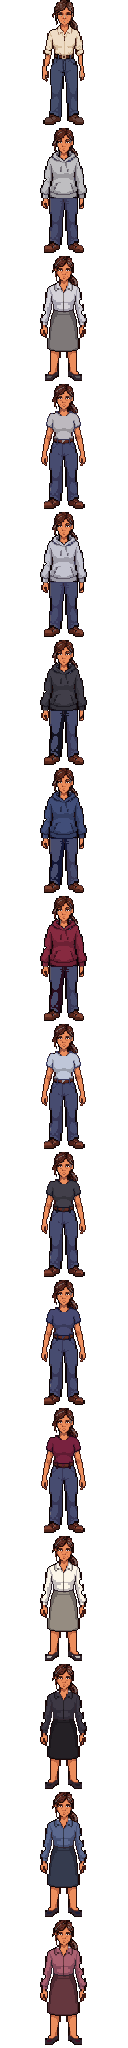
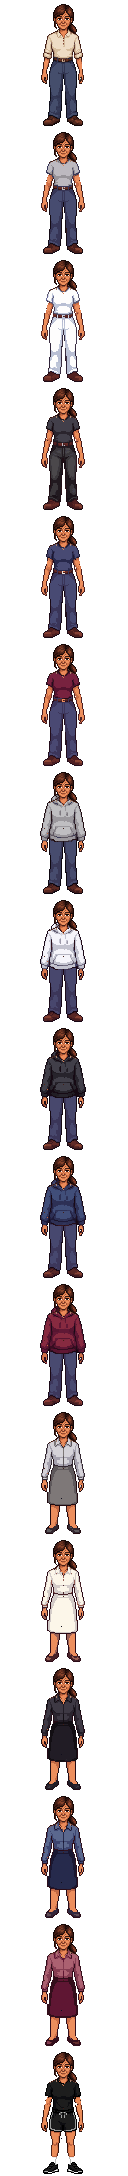
Daily 2.3.1 (sin publicar): edades rehechas en PixelLab
Claude-Session: https://claude.ai/code/session_018K2oLYSpPtdcPdEUVYj7Hk

Changed region(s): [[0.3125, 0.0, 0.6875, 1.0]]

diff --git a/pruebas/t38.js b/pruebas/t38.js
@@ -14,7 +14,7 @@ const { chromium } = require('playwright'); const fs = require('fs');
   await p.evaluate(() => { localStorage.setItem('daily_ver_vista', '2.2.6'); localStorage.setItem('daily_prueba_novedades', '1'); }); await p.reload(); await p.waitForTimeout(800); if (await p.$('#invitado')) { await p.click('#invitado'); }
   await p.waitForTimeout(2200);
   let sh = await p.evaluate(() => window.DAILY.get().sheet && window.DAILY.get().sheet.view); let t = await p.evaluate(() => (document.querySelector('#sheetIn') || {}).innerText || '');
-  ok(sh === 'novedades' && /Novedades/.test(t) && /tono de piel/.test(t) && !/niño, joven/.test(t) && /2\.2\.7/.test(t), 'al actualizar aparece «Novedades» con lo de esta versión y las anteriores');
+  ok(sh === 'novedades' && /Novedades/.test(t) && /tono de piel/.test(t) && /niño, joven, adulto o mayor/.test(t) && /2\.2\.7/.test(t), 'al actualizar aparece «Novedades» con lo de esta versión y las anteriores');
   ok(await p.evaluate(v => localStorage.getItem('daily_ver_vista') === v, ver), 'queda anotada la versión vista');
   await A('cerrar'); await p.reload(); await p.waitForTimeout(800); if (await p.$('#invitado')) await p.click('#invitado'); await p.waitForTimeout(2200);
   ok(!(await p.evaluate(() => window.DAILY.get().sheet)), 'no vuelve a aparecer');
@@ -39,6 +39,11 @@ const { chromium } = require('playwright'); const fs = require('fs');
   ok(ed.distintos === 8, 'cada edad tiene su propio dibujo: ' + ed.distintos);
   ok(ed.n.edad === 'mayor' && ed.n.tipo === 'base' && ed.n.peinado === 'base' && !ed.prendas.includes('sotana'), 'lo que no hay en una edad cae en lo que sí: ' + JSON.stringify([ed.n.tipo, ed.n.peinado, ed.prendas]));
   ok(ed.colores === 5 && ed.piel, 'las edades tienen los cinco colores y aceptan el tono de piel');
+  const pm = await p.evaluate(async () => { const PJ = await import('./js/personaje.js'); await PJ.cargar(); const o = PJ.opciones(PJ.normal({ sx: 'f', edad: 'mayor', prenda: 'buzo:azul' })); const oj = PJ.opciones(PJ.normal({ sx: 'f', prenda: 'buzo:azul' }));
+    const cv = document.createElement('canvas'), cv2 = document.createElement('canvas'); PJ.pintar(cv, { sx: 'f', edad: 'mayor', peinado: 'rodete', prenda: 'buzo:azul' }); PJ.pintar(cv2, { sx: 'f', edad: 'mayor', prenda: 'buzo:azul' });
+    return { pe: o.peinados.map(x => x[0]), joven: oj.peinados.map(x => x[0]), distinto: cv.toDataURL() !== cv2.toDataURL(), pr: PJ.opciones(PJ.normal({ sx: 'm', edad: 'adulto' })).prendas.map(x => x[0]) }; });
+  ok(pm.pe.join() === 'base,rodete' && !pm.joven.includes('rodete') && pm.distinto, 'la mayor tiene anteojos o rodete (y la joven no tiene rodete): ' + JSON.stringify(pm));
+  ok(['remera', 'buzo', 'camisa', 'deportiva'].every(x => pm.pr.includes(x)) && !pm.pr.includes('sotana'), 'el adulto tiene toda la ropa laica del joven: ' + pm.pr);
   }
   if (listas.includes('nino')) { await p.click('.seg.edad button[data-p="edad|nino"]'); await p.waitForTimeout(600);
   ok(await p.evaluate(() => (JSON.parse(localStorage.getItem('scaeli-daily-local'))['daily_settings/profile'] || {}).edad === 'nino'), 'la edad elegida se guarda'); }

diff --git a/js/app.js b/js/app.js
@@ -20,7 +20,7 @@ import * as PJ from "./personaje.js";
 import { RETIROS } from "../data/retiros.js";   // 2.2: caminos largos de oración (Scaeli+)
 import { MUSICAS, musicaPlay, musicaStop, musicaEstado, musicaAlCambiar, campana, vozDisponible, decir, callar } from "./audio.js";
 
-export const VERSION="2.3";
+export const VERSION="2.3.1";
 const LOGO_GOOGLE='<svg class="logo-g" viewBox="0 0 48 48" aria-hidden="true"><path fill="#EA4335" d="M24 9.5c3.54 0 6.71 1.22 9.21 3.6l6.85-6.85C35.9 2.38 30.47 0 24 0 14.62 0 6.51 5.38 2.56 13.22l7.98 6.19C12.43 13.72 17.74 9.5 24 9.5z"/><path fill="#4285F4" d="M46.98 24.55c0-1.57-.15-3.09-.38-4.55H24v9.02h12.94c-.58 2.96-2.26 5.48-4.78 7.18l7.73 6c4.51-4.18 7.09-10.36 7.09-17.65z"/><path fill="#FBBC05" d="M10.53 28.59c-.48-1.45-.76-2.99-.76-4.59s.27-3.14.76-4.59l-7.98-6.19C.92 16.46 0 20.12 0 24c0 3.88.92 7.54 2.56 10.78l7.97-6.19z"/><path fill="#34A853" d="M24 48c6.48 0 11.93-2.13 15.89-5.81l-7.73-6c-2.15 1.45-4.92 2.3-8.16 2.3-6.26 0-11.57-4.22-13.47-9.91l-7.98 6.19C6.51 42.62 14.62 48 24 48z"/></svg>';
 const LOGO_APPLE='<svg class="logo-a" viewBox="0 0 814 1000" aria-hidden="true"><path fill="currentColor" d="M788.1 340.9c-5.8 4.5-108.2 62.2-108.2 190.5 0 148.4 130.3 200.9 134.2 202.2-.6 3.2-20.7 71.9-68.7 141.9-42.8 61.6-87.5 123.1-155.5 123.1s-85.5-39.5-164-39.5c-76.5 0-103.7 40.8-165.9 40.8s-105.6-57-155.5-127C46.7 790.7 0 663 0 541.8c0-194.4 126.4-297.5 250.8-297.5 66.1 0 121.2 43.4 162.7 43.4 39.5 0 101.1-46 176.3-46 28.5 0 130.9 2.6 198.3 99.2zm-234-181.5c31.1-36.9 53.1-88.1 53.1-139.3 0-7.1-.6-14.3-1.9-20.1-50.6 1.9-110.8 33.7-147.1 75.8-28.5 32.4-55.1 83.6-55.1 135.5 0 7.8 1.3 15.6 1.9 18.1 3.2.6 8.4 1.3 13.6 1.3 45.4 0 102.5-30.4 135.5-71.3z"/></svg>';
 /* la dirección publicada: la app de las tiendas lee de acá los Evangelios del día (los genera la GitHub Action cada noche) */
@@ -1857,6 +1857,7 @@ try{ if(localStorage.getItem("daily_theme")==="light") document.documentElement.
    2) Al abrir la versión nueva: una vez, la hoja «Novedades» con lo que cambió desde la última que viste (NOVEDADES, la más nueva primero).
    En cada versión nueva hay que sumar su entrada acá (t38 lo comprueba). */
 const NOVEDADES=[
+  ["2.3.1",["Tu personaje puede ser niño, joven, adulto o mayor (en Yo), con toda su ropa y sus colores.","La abuela tiene dos peinados: con anteojos o con rodete."]],
   ["2.3",["Elegí el tono de piel de tu personaje (en Yo).","Lo que ya rezaste hoy aparece con un tilde, y el inicio te propone lo que te falta.","El lápiz para editar tu personaje está en la esquina.","Liturgia de las Horas: qué es y para qué sirve cada Hora.","Este aviso: cada vez que actualicemos la app, vas a ver acá las novedades."]],
   ["2.2.7",["Scaeli Daily está en su dirección propia: daily.scaeli.com.ar."]],
   ["2.2.6",["En Hoy podés anotar una caída de un hábito con el «−».","Lo que rezás en la app marca solo el hábito del mismo nombre.","Ya se puede conectar Google Calendar."]]];

diff --git a/js/personaje.js b/js/personaje.js
@@ -17,15 +17,16 @@ const REF={m:[245,156,107],f:[236,142,93]};
 const hex=h=>[1,3,5].map(i=>parseInt(h.slice(i,i+2),16));
 /* 2.1.3: peinados nuevos, los del creador de personajes del juego (herramientas/peinados.py) */
 export const PEINADOS={m:[["base","Medio"],["corto","Corto"],["ondulado","Ondulado"],["rulos","Rulos"],["lacio","Lacio"],["rapado","Rapado"]],
-  f:[["base","Colita"],["suelto","Suelto"],["corto","Carré"],["ondas","Ondas"],["trenza","Trenza"],["flequillo","Flequillo"]]};
+  f:[["base","Colita"],["suelto","Suelto"],["corto","Carré"],["ondas","Ondas"],["trenza","Trenza"],["flequillo","Flequillo"],["rodete","Rodete"]]};   // rodete: solo la mayor (2.3.1)
 
-/* 2.3: edades. El joven es el dibujo de PixelLab (hojas m y f); niño, adulto y mayor los redibujó Gemini (herramientas/edades.py),
-   cada una en su hoja ({sx}_{edad}.png) con ropa de base, buzo, remera y deportiva o pollera, en los cinco colores, y un solo peinado. */
+/* 2.3.1: edades, todas de PixelLab (herramientas/edades_pixellab.py). Adulto y mayor: la cabeza de la edad (PixelLab editó el
+   dibujo del joven) sobre toda la ropa laica del joven; niño y niña: dibujo propio, más bajo, con base, buzo, remera, deportiva
+   y pollera. La mayor tiene dos peinados (anteojos y rodete). Los consagrados quedan en Joven. */
 export const EDADES=[["nino","Niño"],["joven","Joven"],["adulto","Adulto"],["mayor","Mayor"]];
 export const EDADES_F={nino:"Niña",joven:"Joven",adulto:"Adulta",mayor:"Mayor"};
 const HOJAS=["m","f","m_nino","f_nino","m_adulto","f_adulto","m_mayor","f_mayor"];
-/* 2.3.1: las edades de Gemini no gustaron; se ocultan hasta rehacerlas en PixelLab. Las que estén listas van acá. */
-export const EDADES_LISTAS=["joven"];
+/* las edades que se ofrecen (2.3.1: se ocultaron las de Gemini y volvieron rehechas en PixelLab) */
+export const EDADES_LISTAS=["nino","joven","adulto","mayor"];
 const hojaDe=(sx,edad)=>edad&&edad!=="joven"?sx+"_"+edad:sx;
 let META=null; const HOJA={}, PIEL={}; let listo=null;
 function cargarImg(src){ return new Promise((ok,mal)=>{ const im=new Image(); im.onload=()=>ok(im); im.onerror=mal; im.src=src; }); }

diff --git a/herramientas/edades_pixellab.py b/herramientas/edades_pixellab.py
@@ -1,0 +1,102 @@
+"""Daily 2.3.1 · edades del personaje hechas en PixelLab (reemplazan las de Gemini de la 2.3, que no gustaron).
+Fuentes en herramientas/pixellab_edades/ (PixelLab, Pixen, 1 generación cada una; ver LEEME-DAILY.md, 2.3.1):
+  · Adultos y mayores: «Edit image» sobre el dibujo del joven (ropa de base): PixelLab cambió solo la cabeza (filas 0–40),
+    el cuerpo queda igual. Acá se pone esa cabeza sobre TODAS las ropas laicas del joven (camisa clara, remera, buzo, camisa,
+    deportiva, pollera, en los cinco colores): misma ropa y mismos colores que el joven, sin gastar más créditos.
+      adulto_m_base_1 (40 años, barba) · mayor_m_base_1 (70, canas y barba blanca)
+      adulta_f_base_2 (40, colita) · mayor_f_base_2 (70, anteojos, peinado «base») · mayor_f_base_3 (70, rodete, peinado «rodete»)
+  · Niños: dibujo nuevo con «Create image» (96 × 96, otro cuerpo) y su ropa con «Edit image»: base, buzo, remera, deportiva
+    (y pollera ella), en gris; los otros cuatro colores salen de teñir la prenda gris (edades.recolor, mismo método de la 2.3).
+    nino_m_base_3 + nino_m_{buzo2,remera,deportiva} · nina_f_base_2 + nina_f_{buzo,remera,pollera,deportiva}
+Escribe assets/personaje/{sx}_{edad}.png y sus claves en pj.json. Después: herramientas/piel_mascara.py.
+Uso: python3 herramientas/edades_pixellab.py
+"""
+import os, sys, json, numpy as np
+from PIL import Image
+AQUI = os.path.dirname(os.path.abspath(__file__)); sys.path.insert(0, AQUI)
+import edades as E          # recolor/objetivos (2.3)
+R = E.R; P = os.path.join(AQUI, 'pixellab_edades') + '/'
+pj = E.pj
+COLORES = E.COLORES
+LAICAS = {'m': ['base', 'remera', 'buzo', 'camisa', 'deportiva'], 'f': ['base', 'remera', 'buzo', 'pollera', 'deportiva']}
+CABEZAS = {('m', 'adulto'): {'base': 'adulto_m_base_1'}, ('m', 'mayor'): {'base': 'mayor_m_base_1'},
+           ('f', 'adulto'): {'base': 'adulta_f_base_2'}, ('f', 'mayor'): {'base': 'mayor_f_base_2', 'rodete': 'mayor_f_base_3'}}
+NINOS = {'m': {'base|base': 'nino_m_base_3', 'buzo:gris|base': 'nino_m_buzo2', 'remera:gris|base': 'nino_m_remera', 'deportiva|base': 'nino_m_deportiva'},
+         'f': {'base|base': 'nina_f_base_2', 'buzo:gris|base': 'nina_f_buzo', 'remera:gris|base': 'nina_f_remera',
+               'pollera:gris|base': 'nina_f_pollera', 'deportiva|base': 'nina_f_deportiva'}}
+
+def img(p): return np.array(Image.open(p).convert('RGBA')).astype(int)
+def frame(sx, k): return np.array(E.frame(E.hoja(sx), sx, k)).astype(int)
+
+def cuello(sx):
+    """fila donde termina la cabeza: la más baja que cambió PixelLab en las cabezas de esa hoja (barba, mentón) + 1"""
+    b = frame(sx, 'base|base'); ys = []
+    for d in CABEZAS[(sx, 'adulto')].values(), CABEZAS[(sx, 'mayor')].values():
+        for k in d:
+            a = img(P + k + '.png'); dif = np.abs(a - b).sum(2) > 30; dif[50:] = False
+            ys.append(np.where(dif.sum(1) >= 3)[0].max())   # filas con al menos 3 píxeles cambiados (no puntas sueltas)
+    return max(ys) + 1
+
+def es_camisa(c):
+    """la camisa clara del dibujo de base (crema, también en sombra): clara, cálida y poco saturada (no es piel ni canas)"""
+    r, g, b = c[..., 0], c[..., 1], c[..., 2]
+    return (r > 140) & (r - b > 18) & (r - b < 70) & (r - g < 35)
+
+def poner_cabeza(cab, ropa, base, N):
+    """la cabeza de la edad sobre el dibujo del joven con esa ropa. Hasta N-10 manda la cabeza entera (pelo, cara,
+    transparencia). Desde ahí: lo que la edad cambió y no es camisa (barba, puntas de pelo, canas) va de la cabeza; si la edad
+    sacó pelo que el joven tenía sobre el hombro (colita) y debajo aparece la camisa clara, se toma la ropa del otro hombro
+    (espejo); entre N-10 y N, la cara y el cuello del joven van de la cabeza y su camisa, de la ropa; abajo de N, la ropa."""
+    out = ropa.copy(); top = N - 10
+    out[:top] = cab[:top]
+    A = np.abs(cab - base).sum(2) > 30
+    camA = es_camisa(cab[..., :3]) | (cab[..., 3] == 0)
+    igual = np.abs(ropa - base).sum(2) <= 30
+    espejo = ropa[:, ::-1]
+    rr, gg, bb = ropa[..., 0], ropa[..., 1], ropa[..., 2]
+    pelo = (ropa[..., 3] > 0) & ((rr + gg + bb) / 3 < 120) & (rr >= gg) & (gg >= bb) & (rr - bb > 15)   # castaño del joven
+    for y in range(top, 128):
+        for x in range(128):
+            if A[y, x] and not camA[y, x]: out[y, x] = cab[y, x]
+            elif A[y, x] and camA[y, x]:
+                if igual[y, x] or pelo[y, x]: out[y, x] = espejo[y, x] if not (np.abs(espejo[y, x] - base[y, x]).sum() <= 30) else cab[y, x]
+            elif pelo[y, x] and camA[y, x] and cab[y, x, 3] > 0: out[y, x] = espejo[y, x]   # colita del joven que la edad no tiene
+            elif y < N and not es_camisa(base[y, x, :3]) and base[y, x, 3] > 0: out[y, x] = cab[y, x]
+    return out
+
+def a128(a, pie=126):
+    """un dibujo de 96 en el lienzo de 128, centrado y con los pies en la misma fila que el joven"""
+    im = Image.fromarray(a.astype(np.uint8), 'RGBA'); bb = im.getbbox(); fig = im.crop(bb)
+    c = Image.new('RGBA', (128, 128)); c.paste(fig, ((128 - fig.width) // 2, pie + 1 - fig.height)); return c
+
+def armar_adultos(sx, edad):
+    H = E.hoja(sx); base = frame(sx, 'base|base'); N = cuello(sx); cuadros = {}
+    for pe, k in CABEZAS[(sx, edad)].items():
+        cab = img(P + k + '.png')
+        for clave in pj[sx]['combos']:
+            prenda, peinado = clave.split('|')
+            if peinado != 'base' or prenda.split(':')[0] not in LAICAS[sx]: continue
+            out = poner_cabeza(cab, frame(sx, clave), base, N)
+            cuadros[prenda + '|' + pe] = Image.fromarray(out.astype(np.uint8), 'RGBA')
+    return cuadros
+
+def armar_ninos(sx):
+    H = E.hoja(sx); cuadros = {}
+    for clave, k in NINOS[sx].items(): cuadros[clave] = a128(img(P + k + '.png'))
+    for prenda in ['buzo', 'remera'] + (['pollera'] if sx == 'f' else []):
+        gris = cuadros[prenda + ':gris|base']
+        for c in COLORES[1:]: cuadros[f'{prenda}:{c}|base'] = E.recolor(gris, E.objetivos(H, sx, prenda, c))
+    return cuadros
+
+def guardar(sx, edad, cuadros):
+    claves = list(cuadros); S = Image.new('RGBA', (128, 128 * len(claves)), (0, 0, 0, 0))
+    for i, k in enumerate(claves): S.paste(cuadros[k], (0, i * 128))
+    S.save(R + f'{sx}_{edad}.png', optimize=True)
+    pj[f'{sx}_{edad}'] = {'combos': {k: {'fila': i, 'dibujo': f'pixellab_{edad}_{sx}'} for i, k in enumerate(claves)}}
+    print(sx, edad, len(claves), 'dibujos')
+
+if __name__ == '__main__':
+    for sx in 'mf':
+        guardar(sx, 'nino', armar_ninos(sx))
+        for edad in ['adulto', 'mayor']: guardar(sx, edad, armar_adultos(sx, edad))
+    json.dump(pj, open(R + 'pj.json', 'w'), ensure_ascii=False, separators=(',', ':'))

diff --git a/LEEME-DAILY.md b/LEEME-DAILY.md
@@ -52,6 +52,11 @@ bash pruebas/todo.sh                                     # levanta el servidor e
 - **Más adelante**: poses de oración; insignias del grupo leídas por el juego; el logo del atleta en las 8 vistas de Fit.
 
 ## Últimas versiones (detalle en LEEME-PRIMERO.md)
+- **2.3.1** (16/11, «la mujer adulta, adulta mayor, los niños y el adulto mayor están muy mal hechos… los niños tienen que ser con otro cuerpo»): **edades rehechas en PixelLab** (cuenta de Lorenzo, Creator, modelo Pixen, 1 generación cada imagen; se usaron 22 de 40). Mientras tanto la app publicada siguió en 2.3 (no se publicó nada sin su ok). Lorenzo eligió entre opciones: niño 1, niña B, adulto 1 (barba), adulta, mayor él, y la mayor con **dos peinados** (anteojos = `base`, rodete = `rodete`, nuevo en `PEINADOS.f`, solo existe en `f_mayor`).
+  - **Adultos y mayores**: «Edit image» sobre el dibujo del joven con la ropa de base («Change his/her age to…, keep the same pose, body size, clothes»). PixelLab cambia solo la cabeza (filas 0–40), así que `herramientas/edades_pixellab.py` pone esa cabeza sobre **toda la ropa laica del joven** (camisa clara, remera, buzo, camisa, deportiva, pollera, cinco colores) sin más créditos: arriba la cabeza entera, en la franja del cuello lo que la edad cambió (barba, canas) y la cara del joven, abajo la ropa; si la edad no tiene la colita del joven, se rellena con la ropa del otro hombro (espejo).
+  - **Niños**: dibujo nuevo con «Create image» de 96 × 96 (más bajo, otro cuerpo; prompt «realistic child proportions, not chibi, not anime… western RPG style»), pies alineados con el joven en el lienzo de 128; su ropa con «Edit image» (buzo con capucha baja, remera, deportiva y pollera, en gris) y los otros colores teñidos (`edades.recolor`).
+  - Fuentes en `herramientas/pixellab_edades/` (también las opciones descartadas). Cómo se bajan las imágenes de PixelLab sin descargar archivos: el Creator las tiene como `data:` en la página; se codifican (paleta + índices comprimidos) en un `<article>` oculto y se leen con el texto de la página.
+  - Las edades de Gemini de la 2.3 quedaron reemplazadas (`herramientas/edades.py` sigue sirviendo por `recolor`). `EDADES_LISTAS` (js/personaje.js) dice qué edades se ofrecen; una edad oculta cae en Joven. NOVEDADES 2.3.1. t38 actualizada (cuatro edades, rodete, ropa laica del adulto). SW v44; Android versionCode 11.
 - **2.3** (16/11, «cada vez que actualicemos tiene que aparecer un aviso… más colores de piel… el lápiz en una esquina… marcá las cosas que ya se hicieron… explicar qué es la Liturgia de las Horas»):
   - **Avisos de actualización**: con la app abierta, cuando el service worker nuevo toma el control, aparece «Hay una versión nueva de Scaeli · Actualizar» (`avisoVersionNueva`; se busca versión nueva cada 30 min y al volver a la app). Al abrir la versión nueva, una vez, la hoja **«Novedades»** (`NOVEDADES` en js/app.js, la más nueva primero; muestra hasta 3 versiones desde la última vista, `daily_ver_vista`). Quien entra por primera vez no la ve. **Regla: en cada versión nueva hay que sumar su entrada a `NOVEDADES`** (t38 lo comprueba).
   - **Tonos de piel** (6: Clara, Media = el dibujo original, Trigueña, Morena, Oscura, Muy oscura; `PJ.TONOS`, campo `tono` del perfil). Se tiñen solo los píxeles de piel, con las máscaras `assets/personaje/{m,f}_piel.png` (`herramientas/piel_mascara.py`, hay que correrlo cada vez que cambien las hojas), escalando cada canal desde el tono del dibujo: se conservan sombras y rasgos.
